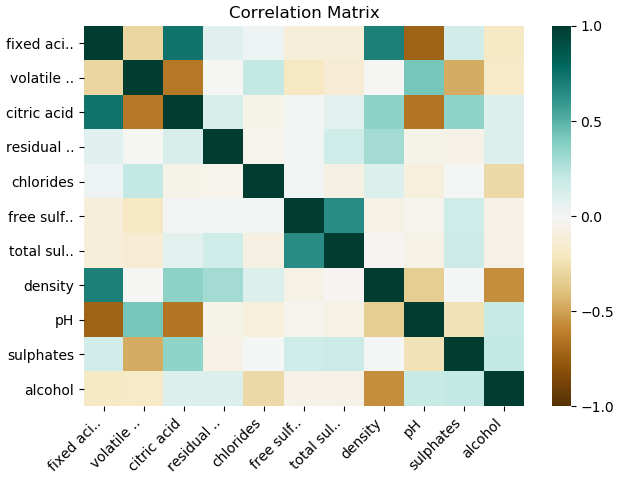
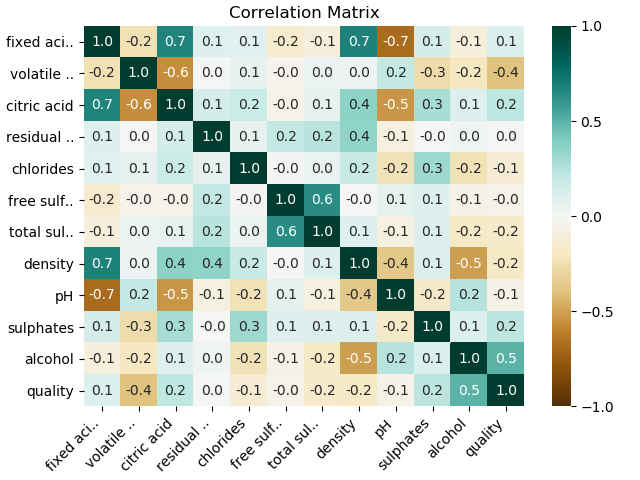
plot feature importance and nearly done with the code

diff --git a/lib/functions.py b/lib/functions.py
@@ -4,13 +4,9 @@ import seaborn as sns
 import matplotlib.pyplot as plt
 from pathlib import Path
 from imblearn.over_sampling import RandomOverSampler
-from sklearn.model_selection import (
-    train_test_split,
-    cross_val_score,
-    GridSearchCV,
-)
+from sklearn.model_selection import train_test_split, cross_val_score, GridSearchCV
 from sklearn.preprocessing import StandardScaler, OneHotEncoder
-from sklearn.metrics import confusion_matrix
+from sklearn.metrics import confusion_matrix, f1_score
 from sklearn.tree import DecisionTreeClassifier
 from sklearn.ensemble import (
     GradientBoostingClassifier,
@@ -87,7 +83,7 @@ def preprocess_data(verbose=True, upsample=True):
         "[g/l]",
         "",
         "[g(potassium sulphate)/l]",
-        "[vol.\%]"
+        "[vol.\%]",
     ]
     print("\n\t------------------ TABLE 1: raw X data summary ------------------")
     print("\tPredictor & Min & Max & Mean \\\\\\hline")
@@ -165,8 +161,8 @@ def plot_histogram(y, scores):
     return None
 
 
-def correlation_matrix(X, predictors):
-    sigma = np.corrcoef(X)
+def correlation_matrix(X, y, predictors):
+    sigma = np.corrcoef(np.concatenate((X, y.reshape(-1, 1)), axis=1).T)
     ax = plt.subplot(111)
     ax.set_title(f"Correlation Matrix")
     map = sns.heatmap(
@@ -175,7 +171,9 @@ def correlation_matrix(X, predictors):
         vmin=-1.0,
         vmax=1.0,
         cmap="BrBG",
-        cbar_kws={"ticks": [-1, -0.5, 0, 0.5, 1]},
+        cbar_kws={"ticks": np.linspace(-1, 1, 5)},
+        annot=True,
+        fmt="1.1f",
         xticklabels=predictors,
         yticklabels=predictors,
     )
@@ -196,12 +194,12 @@ def accuracy(clf, X, y, cv=5):
 
 def score_wise_accuracy(yt, yp):
     print("\tScore |  3   |  4   |  5   |  6   |  7   |  8   |\n\t", end="T=0.5 | ")
-    for i in range(3,9):
+    for i in range(3, 9):
         acc = np.sum(np.logical_and(yp == yt, yt == i)) / np.sum(yt == i)
         print(f"{acc:1.2f}", end=" | ")
     print("\n\tT=1.0 | ", end="")
-    for i in range(3,9):
-        acc = np.sum(np.logical_and(np.abs(yt-yp)<=1, yt == i)) / np.sum(yt == i)
+    for i in range(3, 9):
+        acc = np.sum(np.logical_and(np.abs(yt - yp) <= 1, yt == i)) / np.sum(yt == i)
         print(f"{acc:1.2f}", end=" | ")
     print("\n\n")
     return acc
@@ -210,18 +208,22 @@ def score_wise_accuracy(yt, yp):
 def plot_confusion_matrix(X, Xt, y, yt, clf):
     clf.fit(X, y)
     yp = clf.predict(Xt)
-    score_wise_accuracy(yt, yp)
-    C = confusion_matrix(yt, yp) #, normalize="true")
-    # Plot
-    ax = plt.subplot(111)
-    title = type(clf.base_estimator_).__name__
-    title += f", Accuracy = {100 * np.sum(yp == yt) / len(yt):1.2f} %\n"
+    # Prints
+    methodstr = type(clf.estimator).__name__
+    f1 = f1_score(yt, yp, average="weighted")
+    print("\t" + methodstr)
+    print("\t" + "-"*len(methodstr))
+    print(f"\tf1_score = {f1:1.2f}")
+    print(f"\tAccuracy = {(100 * np.sum(yp == yt) / len(yt)):1.2f} %")
     for key in clf.best_params_:
         val = clf.best_params_[key]
-        title += f"{key} = {val:,}, "
-    ax.set_title(title[:-2])
+        print(f"\t{key} = {val:,}")
+    score_wise_accuracy(yt, yp)
+    # Plot
+    ax = plt.subplot(111)
+    ax.set_title(methodstr)
     sns.heatmap(
-        C,
+        confusion_matrix(yt, yp),
         ax=ax,
         cmap="Blues",
         annot=True,
@@ -234,30 +236,61 @@ def plot_confusion_matrix(X, Xt, y, yt, clf):
     b += 0.5  # Add 0.5 to the bottom
     t -= 0.5  # Subtract 0.5 from the top
     plt.ylim(b, t)
-    plt.xlabel("True Score")
-    plt.ylabel("Predicted Score")
-    plt.show()
+    plt.ylabel("True Score")
+    plt.xlabel("Predicted Score")
+    fn = methodstr + "_confusion_matrix.png"
+    plt.savefig(FIG_FOLDER / fn)
+    plt.close()
+    return None
+
+
+def plot_feature_importances(X, y, clf, predictors):
+    clf.fit(X, y)
+    # Extract feature importance from sklearn
+    feat_importance = clf.feature_importances_
+    # Sort
+    perm = np.argsort(feat_importance)[::-1]
+    sorted_predictors = []
+    sorted_imporances = feat_importance[perm]
+    for p in perm:
+        sorted_predictors.append(predictors[p])
+    # Plot
+    methodstr = type(clf).__name__
+    plt.title(methodstr)
+    sns.barplot(sorted_imporances, sorted_predictors)
+    plt.xlabel("Relative Importance")
+    plt.grid()
+    fn = methodstr + "_feature_importance.png"
+    plt.savefig(FIG_FOLDER / fn)
+    plt.close()
+    return None
 
 
 def bagging(X, Xt, y, yt):
     print("Bagging\n-------")
     clf = GridSearchCV(
         BaggingClassifier(n_estimators=500, bootstrap=True, oob_score=True),
-        param_grid={
-            "n_estimators": range(100,1050,50)
-        },
+        param_grid={"n_estimators": range(100, 1600, 100)},
         cv=5,
         verbose=3,
-        n_jobs=-1
+        n_jobs=-1,
+        scoring="balanced_accuracy"
     )
     plot_confusion_matrix(X, Xt, y, yt, clf)
     """
-    [Parallel(n_jobs=1)]: Done  95 out of  95 | elapsed:  4.5min finished
-    {'n_estimators': 250}
     [Parallel(n_jobs=-1)]: Done  95 out of  95 | elapsed:  1.1min finished
         Score |  3   |  4   |  5   |  6   |  7   |  8   |
-        T=0.5 | 0.00 | 0.13 | 0.70 | 0.66 | 0.58 | 0.20 |
-        T=1.0 | 0.00 | 0.74 | 0.95 | 0.95 | 0.98 | 0.60 |
+        T=0.5 | 0.00 | 0.13 | 0.69 | 0.67 | 0.56 | 0.20 |
+        T=1.0 | 0.00 | 0.74 | 0.95 | 0.95 | 0.97 | 0.60 |
+    [Parallel(n_jobs=-1)]: Done  75 out of  75 | elapsed:   51.1s finished
+        BaggingClassifier
+        -----------------
+        f1_score = 0.66
+        Accuracy = 67.61 %
+        n_estimators = 1,000
+        Score |  3   |  4   |  5   |  6   |  7   |  8   |
+        T=0.5 | 0.00 | 0.04 | 0.79 | 0.69 | 0.55 | 0.20 |
+        T=1.0 | 0.00 | 0.74 | 0.98 | 1.00 | 0.97 | 0.60 | 
     """
 
 
@@ -266,26 +299,57 @@ def random_forest(X, Xt, y, yt):
     clf = GridSearchCV(
         RandomForestClassifier(),
         param_grid={
-            "n_estimators": range(100,1100,100),
-            "max_features": range(1,11,1)
+            "n_estimators": range(100, 1100, 100),
+            "max_features": range(1, 11, 1),
         },
         cv=5,
         verbose=3,
-        n_jobs=-1
+        n_jobs=-1,
+        scoring="balanced_accuracy"
     )
     plot_confusion_matrix(X, Xt, y, yt, clf)
+    """
+    [Parallel(n_jobs=-1)]: Done 500 out of 500 | elapsed:  3.5min finished
+        Score |  3   |  4   |  5   |  6   |  7   |  8   |
+        T=0.5 | 0.00 | 0.00 | 0.76 | 0.69 | 0.47 | 0.20 |
+        T=1.0 | 0.00 | 0.70 | 0.98 | 1.00 | 0.98 | 0.60 |
+    [Parallel(n_jobs=-1)]: Done 500 out of 500 | elapsed:  2.4min finished
+        RandomForestClassifier
+        ----------------------
+        f1_score = 0.65
+        Accuracy = 66.48 %
+        max_features = 9
+        n_estimators = 100
+        Score |  3   |  4   |  5   |  6   |  7   |  8   |
+        T=0.5 | 0.00 | 0.00 | 0.78 | 0.68 | 0.53 | 0.20 |
+        T=1.0 | 0.00 | 0.70 | 0.98 | 1.00 | 0.97 | 0.60 |
+    """
 
 
 def boosting(X, Xt, y, yt):
     print("Gradient Boosting\n-----------------")
     clf = GridSearchCV(
-        GradientBoostingClassifier(n_estimators=100),
+        GradientBoostingClassifier(max_leaf_nodes=6),
         param_grid={
-            "n_estimators": range(100,1100,100),
-            "max_features": range(1,11,1)
+            "learning_rate": [0.01,0.05,0.1],
+            "n_estimators": range(100, 2000, 100),
         },
         cv=5,
         verbose=3,
-        n_jobs=-1
+        n_jobs=-1,
+        scoring="balanced_accuracy"
     )
     plot_confusion_matrix(X, Xt, y, yt, clf)
+    """
+    [Parallel(n_jobs=-1)]: Done 285 out of 285 | elapsed:  7.6min finished
+    GradientBoostingClassifier
+    --------------------------
+    f1_score = 0.62
+    Accuracy = 62.50 %
+    learning_rate = 0.1
+    n_estimators = 100
+    Score |  3   |  4   |  5   |  6   |  7   |  8   |
+    T=0.5 | 0.00 | 0.09 | 0.73 | 0.64 | 0.45 | 0.20 |
+    T=1.0 | 0.00 | 0.65 | 0.96 | 0.97 | 0.98 | 0.60 |
+
+    """

diff --git a/main.py b/main.py
@@ -1,18 +1,25 @@
 import numpy as np
+from sklearn.ensemble import GradientBoostingClassifier, RandomForestClassifier
 from lib.functions import *
 
 
 def main():
     X, Xt, y, yt, predictors, score_categories, original_y = preprocess_data(
-        verbose=True, upsample=True
+        verbose=True, upsample=False
     )
     # plot_histogram(original_y, score_categories)
-    # correlation_matrix(X.T, predictors[:-1])
+    # correlation_matrix(X, y, predictors)
 
-    # bagging(X, Xt, y, yt)
+    bagging(X, Xt, y, yt)
     random_forest(X, Xt, y, yt)
     # boosting(X, Xt, y, yt)
 
+    # plot_feature_importances(
+        # X, y, RandomForestClassifier(n_estimators=900, max_features=11), predictors
+    # )
+    # plot_feature_importances(
+        # X, y, GradientBoostingClassifier(n_estimators=1000, learning_rate=0.1), predictors
+    # )
 
 if __name__ == "__main__":
     main()
